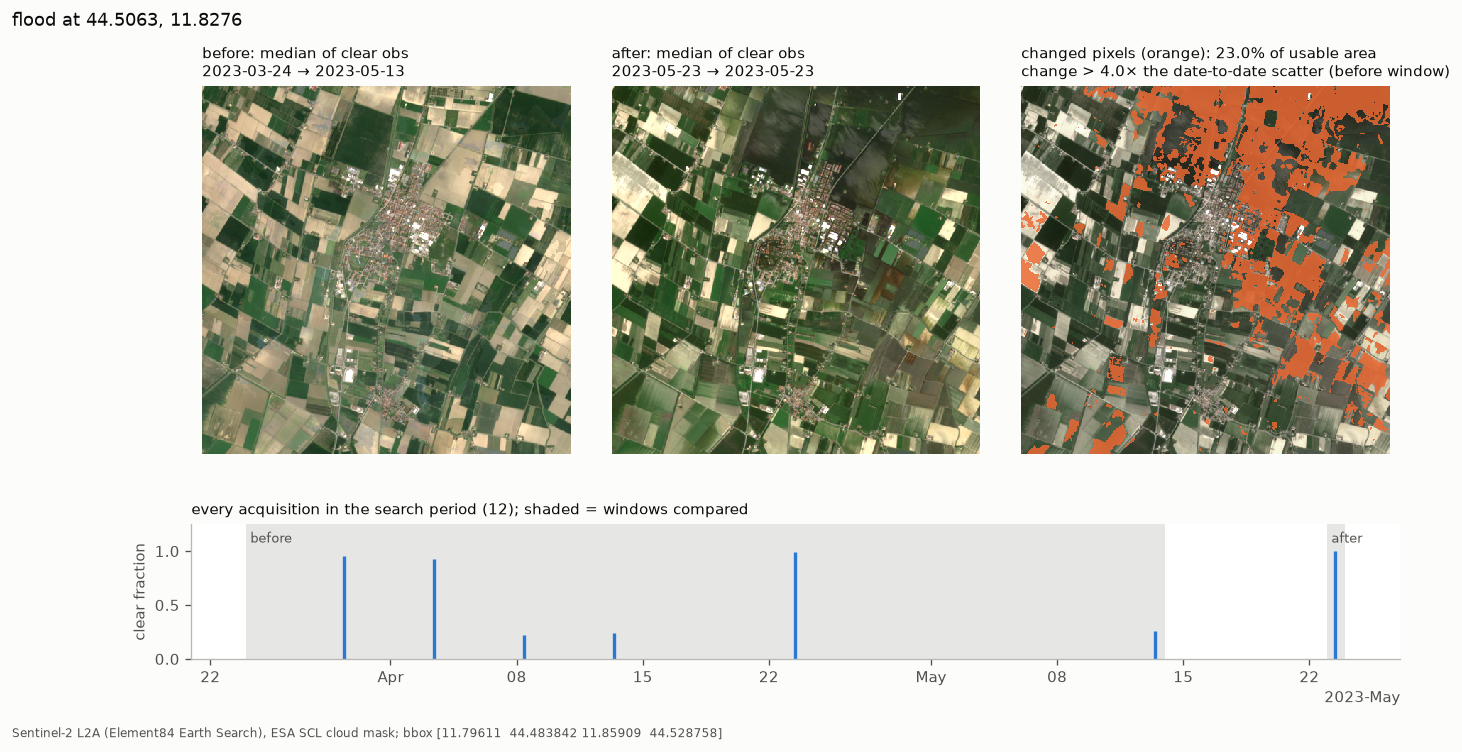
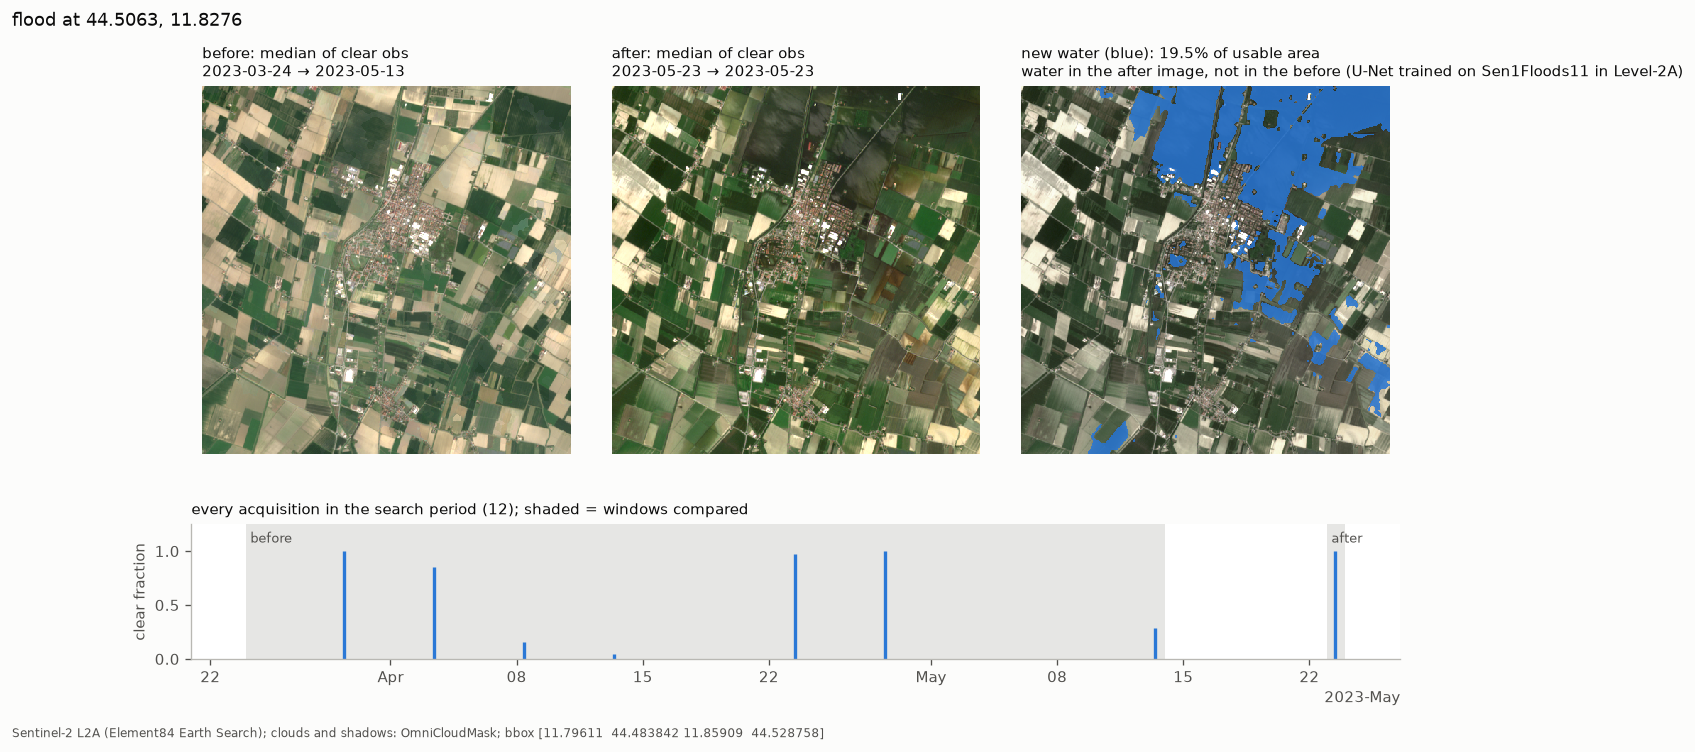
README first screen: live demo link and picture, three results with intervals, the method in one paragraph, overlap (IoU) defined; detailed table moved down with its terms explained and the construction score put in context. Evidence figure now shows what the answer used (new water from the water ne

diff --git a/core/evidence.py b/core/evidence.py
@@ -45,9 +45,21 @@ def render_evidence(
     after: tuple[date, date],
     out_path: str | Path,
     title: str = "",
+    water: str = "ndwi",
+    change: str = "rule",
+    cloud: str = "scl",
 ) -> Path:
     """Write the evidence PNG and return its path. `result` comes from
-    core.models.baseline.detect_change_timeseries."""
+    core.models.baseline.detect_change_timeseries; `water`, `change` and `cloud` name the detectors that
+    made it, so that the third panel and the footnote show what the answer was actually based on: new water
+    for a flood question (a trained water detector), otherwise the changed pixels of the change detector."""
+    import re
+
+    from core.models.change import NAMES as CHANGE_NAMES
+    from core.models.water import NAMES as WATER_NAMES
+
+    def plain(name: str) -> str:        # visitors see the method, not our milestone labels
+        return re.sub(r"\s*\((milestones?|B\d)[^)]*\)", "", name)
     out_path = Path(out_path)
     out_path.parent.mkdir(parents=True, exist_ok=True)
     plt.rcParams.update({"font.size": 9, "axes.edgecolor": MUTED, "axes.labelcolor": INK_2,
@@ -70,11 +82,20 @@ def render_evidence(
             ax.axis("off")
         ax = fig.add_subplot(gs[0, 2])
         ax.imshow(ra * 0.55 + 0.45 * ra.mean(-1, keepdims=True), interpolation="nearest")
-        ov = np.zeros(changed.shape + (4,))
-        ov[changed] = (0.92, 0.41, 0.20, 0.85)
+        if water != "ndwi":                     # a flood question: the answer is the new water
+            mask, colour = result["_new_water"], (0.16, 0.47, 0.84, 0.85)
+            frac = result["water_fraction_after"] - result["water_fraction_before"]
+            ttl = (f"new water (blue): {frac:.1%} of usable area\n"
+                   f"water in the after image, not in the before ({plain(WATER_NAMES.get(water.split('-without-')[0], water))})")
+        else:
+            mask, colour = changed, (0.92, 0.41, 0.20, 0.85)
+            how = (f"change > {result['z_threshold']}× the date-to-date scatter (before window)" if change == "rule"
+                   else plain(CHANGE_NAMES.get(change.split("-without-")[0], change)))
+            ttl = f"changed pixels (orange): {result['changed_fraction']:.1%} of usable area\n{how}"
+        ov = np.zeros(mask.shape + (4,))
+        ov[mask] = colour
         ax.imshow(ov, interpolation="nearest")
-        ax.set_title(f"changed pixels (orange): {result['changed_fraction']:.1%} of usable area\n"
-                     f"change > {result['z_threshold']}× the date-to-date scatter (before window)", loc="left", fontsize=9)
+        ax.set_title(ttl, loc="left", fontsize=9)
         ax.axis("off")
     else:
         ax = fig.add_subplot(gs[0, :])
@@ -97,7 +118,9 @@ def render_evidence(
                  f"shaded = windows compared", loc="left", fontsize=9)
 
     fig.suptitle(title, x=0.01, ha="left", fontsize=11)
-    fig.text(0.01, 0.005, f"Sentinel-2 L2A (Element84 Earth Search), ESA SCL cloud mask; bbox {ds.attrs.get('bbox')}",
+    clouds = {"scl": "ESA scene classification", "ocm": "OmniCloudMask"}.get(cloud, cloud)
+    fig.text(0.01, 0.005, f"Sentinel-2 L2A (Element84 Earth Search); clouds and shadows: {clouds}; "
+             f"bbox {ds.attrs.get('bbox')}",
              fontsize=7, color=INK_2)
     fig.savefig(out_path, dpi=120, bbox_inches="tight", facecolor=SURFACE)
     plt.close(fig)

diff --git a/core/measure.py b/core/measure.py
@@ -82,6 +82,7 @@ FIRE_PERIODS = {"normal": ((-60, -3), (7, 60)), "wide": ((-120, -3), (7, 90))}  
 NEAREST_N, NEAREST_MIN_CLEAR = 8, 0.10
 
 Kind = Literal["flood", "construction", "vegetation_loss"]
+KIND_WORDS = {"flood": "flood", "construction": "new construction", "vegetation_loss": "burnt or cleared vegetation"}
 
 
 def event_periods(d: date, wider: bool = False) -> tuple[tuple[date, date], tuple[date, date]]:
@@ -253,7 +254,7 @@ def _fire_measure(x: MeasureInput, out: dict, steps: list[str], area: dict, band
                                   f"mask could hide a change or fake one")
                 steps.append("caution: " + out["caution"])
             out["sensor"] = "optical"
-            out["figure"] = tools.render_evidence(c.result_id, f"{x.kind} at {x.lat:.4f}, {x.lon:.4f}").path
+            out["figure"] = tools.render_evidence(c.result_id, f"{KIND_WORDS[x.kind]} at {x.lat:.4f}, {x.lon:.4f}", cloud=cloud).path
             return MeasureResult(**out)
     return MeasureResult(**out)
 
@@ -342,7 +343,7 @@ def measure_change(water: str | None = None, radar: str | None = "ALL", cloud: s
         out.update(answer=ans, rule=rule, reason=None if c.status == "ok" else rule)
         if c.status == "ok":
             out["sensor"] = "optical"
-            out["figure"] = tools.render_evidence(c.result_id, f"{x.kind} at {x.lat:.4f}, {x.lon:.4f}").path
+            out["figure"] = tools.render_evidence(c.result_id, f"{KIND_WORDS[x.kind]} at {x.lat:.4f}, {x.lon:.4f}", cloud=cloud).path
             return MeasureResult(**out)
         if may_widen and not wider:
             steps.append("too few clear images -> one retry with wider periods")

diff --git a/core/models/baseline.py b/core/models/baseline.py
@@ -227,8 +227,9 @@ def detect_change_timeseries(
         deltas[f"delta_{k}_changed_median"] = float(np.nanmedian(d[changed])) if changed.any() else 0.0
         deltas[f"delta_{k}_all_median"] = float(np.nanmedian(d[usable]))
     if water == "ndwi":
-        water_before = float(np.nanmean(ib["ndwi"][usable] > 0))
-        water_after = float(np.nanmean(ia["ndwi"][usable] > 0))
+        wmb, wma = ib["ndwi"] > 0, ia["ndwi"] > 0
+        water_before = float(np.nanmean(wmb[usable]))
+        water_after = float(np.nanmean(wma[usable]))
     else:  # a trained water detector (milestone B1) on 7-band median composites
         from core.models.water import BANDS7, water_mask
         missing = [k for k in BANDS7 if k not in ds]
@@ -238,8 +239,9 @@ def detect_change_timeseries(
             warnings.simplefilter("ignore")  # all-NaN pixels give NaN medians; they are outside `usable`
             cb = np.stack([np.nanmedian(wb[k].values, axis=0) for k in BANDS7])
             ca = np.stack([np.nanmedian(wa[k].values, axis=0) for k in BANDS7])
-        water_before = float(water_mask(cb, water)[usable].mean())
-        water_after = float(water_mask(ca, water)[usable].mean())
+        wmb, wma = water_mask(cb, water), water_mask(ca, water)
+        water_before = float(wmb[usable].mean())
+        water_after = float(wma[usable].mean())
 
     return {
         "status": "ok",
@@ -253,5 +255,6 @@ def detect_change_timeseries(
         **deltas,
         "_score": score,  # maps: leading underscore = not for the LLM / JSON
         "_changed": changed,
+        "_new_water": np.asarray(wma & ~wmb & usable),
         "_composites": comp,
     }

diff --git a/core/tools.py b/core/tools.py
@@ -300,7 +300,7 @@ class EvidenceOutput(BaseModel):
     description: str
 
 
-def render_evidence(result_id: str, title: str = "") -> EvidenceOutput:
+def render_evidence(result_id: str, title: str = "", cloud: str | None = None) -> EvidenceOutput:
     """Write the evidence figure (before / after / change map / timeline) for a detect_change result."""
     from core.evidence import render_evidence as _render
 
@@ -311,7 +311,8 @@ def render_evidence(result_id: str, title: str = "") -> EvidenceOutput:
     ds, wb, wa = _combined(*saved["_cubes"])
     r = detect_change_timeseries(ds, wb, wa, water=saved.get("_water", "ndwi"), change=saved.get("_change", "rule"))
     path = _root() / "evidence" / f"{result_id}.png"
-    _render(ds, r, wb, wa, path, title or f"result {result_id}")
+    _render(ds, r, wb, wa, path, title or f"result {result_id}", water=saved.get("_water", "ndwi"),
+            change=saved.get("_change", "rule"), cloud=cloud or "scl")
     return EvidenceOutput(path=str(path), description=(
         "before and after true-colour composites, changed pixels in orange, and the "
         "cloud-free fraction of every acquisition with both windows shaded"))

diff --git a/scripts/make_figures.py b/scripts/make_figures.py
@@ -1,7 +1,7 @@
 """Draw docs/figures/results.png: every learned model against the rule it had to beat.
 
 The numbers are the measured results (runs/b1/report.json, runs/b2/report_A.json, runs/b2/report_C.json,
-runs/b3/report_A.json, runs/b4/report_A.json, runs/b5/report_A.json);
+runs/b3/report_A.json, runs/b4/report_A.json, runs/b5/report_A.json, runs/b7/report_A.json, runs/b8/report.json);
 they are written here so that the figure can be redrawn without the 10 GB of intermediate files.
 
     python scripts/make_figures.py
@@ -59,8 +59,9 @@ PANELS = [
         ("dNBR > t, t fitted", 0.560, "rule"),
         ("Prithvi-EO-2.0 BurnScars, as published", 0.483, "model"),
         ("TerraMind-1.0-base, Siamese (7x larger)", 0.793, "model"),
-        ("U-Net, trained from scratch", 0.772, "adopted"),
-    ], "+0.722 [+0.671, +0.773]\nover the rule"),
+        ("U-Net, trained from scratch", 0.772, "model"),
+        ("U-TAE, every clear date", 0.815, "adopted"),
+    ], "U-TAE, after a second test on\n44 newer fires: +0.021 [+0.012, +0.035] over the U-Net"),
 ]
 
 

diff --git a/README.md b/README.md
@@ -1,37 +1,39 @@
 # satellite-change-agent
 
 **Ask a question about any place on Earth in plain language: "Was this town flooded after the storm?",
-"Was there new construction here since 2022?" The system finds free satellite images, measures the
-change, and answers yes / no / cannot tell, with the numbers and an evidence figure.**
+"Did a wildfire burn here in January?", "Was there new construction here since 2022?" The system finds free
+satellite images, measures the change, and answers yes / no / cannot tell, with the numbers and an
+evidence figure.**
 
-Every learned model in the answer path had to **beat the rule it replaces**, under a protocol fixed
-**before any score was computed**, on **flood events or places it had never seen**, with intervals
-from a cluster bootstrap over events or places.
+**[Try it live](https://deltasata.github.io/eo/)**: type a question or pick a point on a map. When the
+server is off, recorded runs play instead.
 
-![results](docs/figures/results.png)
+[![A burn scar mapped by the trained network and checked against the official map](https://deltasata.github.io/eo/media/compare_burn_poster.jpg)](https://deltasata.github.io/eo/)
 
-| step | rule (or model) it replaced | learned model adopted | gain [95 % interval] |
-|---|---|---|---|
-| which pixels are water, optical (Sentinel-2) | NDWI > 0: 0.690 IoU | **U-Net: 0.833** | +0.143 [+0.083, +0.219] |
-| which pixels are water, radar (Sentinel-1, sees through cloud) | VH < t: 0.477 IoU | **TerraMind-1.0, fine-tuned: 0.611** | +0.134 [+0.090, +0.192] |
-| flood questions answered correctly (72), end to end | optical images only: 0.722 | **optical U-Net + radar TerraMind when cloudy: 0.889** | +0.167 [+0.031, +0.346] |
-| which pixels are cloud or cloud shadow (953 expert-labelled images) | ESA scene classification: 0.644 IoU | **OmniCloudMask, used as published: 0.885** | +0.241 [+0.221, +0.261] |
-| which pixels changed through construction (OSCD, 24 cities) | change / noise > 4: 0.188 IoU | **TerraMind-1.0, Siamese, fine-tuned: 0.301** | +0.114 [+0.052, +0.180] |
-| which pixels burnt (ImpactMesh-Fire, 42 fires) | change / noise > 4: 0.050 IoU | **U-Net: 0.772** (dNBR fitted: 0.560) | +0.722 [+0.671, +0.773] |
-| which pixels burnt, 44 new fires of 2026 (later than all training) | the U-Net above: 0.838 IoU | **U-TAE on every clear date: 0.859** | +0.021 [+0.012, +0.035] |
-| flooded places wrongly called construction (78 benchmark floods) | the construction network above: 21 | **minus the water network's water: 6** | −0.192 [−0.333, −0.072] |
-| wildfire questions answered correctly (228, 55 fires): which images | flood periods: 0.855 | **8 nearest images each side, within the training limits: 0.996** | +0.140 [+0.076, +0.221] |
+*A wildfire in the Landes forest, south-west France (August 2026), mapped from Sentinel-2 images by the trained network and
+checked against the official Copernicus emergency map: yellow = burnt and found, pink = false alarm,
+blue = missed. Click for the live page and the moving comparison with the standard burn index.*
 
-With the new cloud mask, the whole benchmark (150 questions) went from 0.853 to 0.860 (+0.007
-[−0.015, +0.029]); with the new change detector it stayed at 0.860; with the new burn detector it rose to
-0.887 (+0.027 [+0.006, +0.059]; all 13 wildfire questions right, against 9), and stayed there when U-TAE
-replaced the U-Net. Removing the water from the construction map cost one answer, a filling reservoir asked
-as "any change" (0.880). The choice of fire images left it unchanged, because the benchmark's questions
-carry their own periods. Not worse was the condition
-for adopting each. The last step, from a map to yes or no, kept its hand-set thresholds: thresholds fitted
-on the benchmark (leaving one of its 83 groups out) and a logistic regression did not beat them. Asked "was there new construction?" about 78 flooded areas, the change detector answers
-a false "yes" 21 times, against 25 for the rule it replaced; on 570 unburnt patches next to fires, the burn
-detector says "yes" 3.9 % of the time, against 5.1 %.
+## Three results
+
+1. **Floods under cloud are answered with radar, which sees through cloud.** A trained water network on
+   the optical images plus a fine-tuned TerraMind network on Sentinel-1 radar raised the share of flood
+   questions answered correctly from 0.722 (optical images only) to 0.889. The 95 % interval of the gain
+   is +0.031 to +0.346, from resampling whole flood events.
+2. **A 1.1-million-parameter network beat the published 168-million-parameter TerraMind-base-Fire** on 44
+   wildfires that happened after all of its training data: overlap of the burnt area 0.859 against 0.835
+   (difference −0.024 [−0.037, −0.010] for the larger model). *Overlap* (IoU, intersection over union) is
+   the area that the predicted and the true maps share, divided by the area that either covers: 1 is
+   perfect, 0 is no overlap.
+3. **The language model never measures.** It only reads the question and writes the reply. All
+   measurement is one fixed function, and code checks that every number in a reply comes from that
+   function's output.
+
+**How the models were chosen.** Every learned model had to beat the simple rule it replaces (a
+threshold on a band ratio, for example) on flood events or places it had never seen. The test and its
+pass mark were written down **before any score was computed**, and the 95 % intervals come from
+resampling whole events. Several promising ideas failed this test and were not used. Details:
+**[docs/METHODS.md](docs/METHODS.md)**.
 
 ## What it does
 
@@ -54,6 +56,41 @@ Agent   No: 1.0 % of the area changed (threshold 3 %).
 *The conversation is shortened; every number in it is what `measure_change` returns for these inputs.*
 
 ![evidence](docs/figures/conselice_flood.png)
+
+## Results in detail
+
+![results](docs/figures/results.png)
+
+| step | rule (or model) it replaced | learned model adopted | gain [95 % interval] |
+|---|---|---|---|
+| which pixels are water, optical (Sentinel-2) | NDWI > 0: 0.690 IoU | **U-Net: 0.833** | +0.143 [+0.083, +0.219] |
+| which pixels are water, radar (Sentinel-1, sees through cloud) | VH < t: 0.477 IoU | **TerraMind-1.0, fine-tuned: 0.611** | +0.134 [+0.090, +0.192] |
+| flood questions answered correctly (72), end to end | optical images only: 0.722 | **optical U-Net + radar TerraMind when cloudy: 0.889** | +0.167 [+0.031, +0.346] |
+| which pixels are cloud or cloud shadow (953 expert-labelled images) | ESA scene classification: 0.644 IoU | **OmniCloudMask, used as published: 0.885** | +0.241 [+0.221, +0.261] |
+| which pixels changed through construction (OSCD, 24 cities) | change / noise > 4: 0.188 IoU | **TerraMind-1.0, Siamese, fine-tuned: 0.301** | +0.114 [+0.052, +0.180] |
+| which pixels burnt (ImpactMesh-Fire, 42 fires) | change / noise > 4: 0.050 IoU | **U-Net: 0.772** (dNBR fitted: 0.560) | +0.722 [+0.671, +0.773] |
+| which pixels burnt, 44 new fires of 2026 (later than all training) | the U-Net above: 0.838 IoU | **U-TAE on every clear date: 0.859** | +0.021 [+0.012, +0.035] |
+| flooded places wrongly called construction (78 benchmark floods) | the construction network above: 21 of 78 | **minus the water network's water: 6 of 78** | 15 fewer (share −0.192 [−0.333, −0.072]) |
+
+With the new cloud mask, the whole benchmark (150 questions) went from 0.853 to 0.860 (+0.007
+[−0.015, +0.029]); with the new change detector it stayed at 0.860; with the new burn detector it rose to
+0.887 (+0.027 [+0.006, +0.059]; all 13 wildfire questions right, against 9), and stayed there when U-TAE
+replaced the U-Net. Removing the water from the construction map cost one answer (0.880): a dam's
+reservoir that filled, asked as "did anything change?", now counts as no change, because new water is no
+longer counted as construction. The choice of fire images left the benchmark unchanged, because its
+questions carry their own periods. For each adoption the condition was that the benchmark did not get
+worse. The last step, from a map to yes or no, kept its hand-set thresholds: thresholds fitted
+on the benchmark (leaving one of its 83 groups out) and a logistic regression did not beat them. Asked "was there new construction?" about 78 flooded areas, the change detector answers
+a false "yes" 21 times, against 25 for the rule it replaced; on 570 unburnt patches next to fires, the burn
+detector says "yes" 3.9 % of the time, against 5.1 %.
+
+*Terms in the table:* VV and VH are the two polarisations of the Sentinel-1 radar (VH < t: water where the
+VH echo is below a threshold t). NDWI and MNDWI are water indices from two Sentinel-2 bands; dNBR is the
+standard burn index. U-TAE is a network that reads every clear image in a period, not two average images.
+OSCD is the public data set of urban change in 24 cities. For construction, an overlap of 0.301 sounds
+low, but change maps are hard: the same network scores F1 0.46 (F1 is another overlap measure, always
+higher than IoU for the same map), and the published results on OSCD's own test cities are F1 0.4-0.6,
+in a setup that differs from ours.
 
 ## How it works
 
@@ -163,7 +200,8 @@ flowchart LR
     on images from a week to three months after a fire. Taking, on each side, the 8 images nearest the
     fire that are at least 10 % cloud-free, within the training limits, raised the right answers on 228
     fire questions from 0.855 to 0.996 (+0.140 [+0.076, +0.221]), with no "cannot tell" left. The month
-    questions went from 8 of 13 to 13 of 13.
+    questions went from 8 of 13 to 13 of 13. (The 2026 fires had already served one earlier test, of
+    the burn network; see the Limits in METHODS.)
 
 Full protocols, per-event tables and limits: **[docs/METHODS.md](docs/METHODS.md)**.
 

diff --git a/docs/METHODS.md b/docs/METHODS.md
@@ -15,13 +15,14 @@ Every learned component in this system had to beat the rule it replaces, under a
 - [10. Every clear date instead of two medians](#10-every-clear-date-instead-of-two-medians)
 - [11. A second test: fires of 2026, and radar](#11-a-second-test-fires-of-2026-and-radar)
 - [12. An independent review, and three ideas tested](#12-an-independent-review-and-three-ideas-tested)
-- [13. Comparison with published Sen1Floods11 results](#13-comparison-with-published-sen1floods11-results)
-- [14. The agent benchmark](#14-the-agent-benchmark)
-- [15. Limits](#15-limits)
+- [13. Which images a fire question uses](#13-which-images-a-fire-question-uses)
+- [14. Comparison with published Sen1Floods11 results](#14-comparison-with-published-sen1floods11-results)
+- [15. The agent benchmark](#15-the-agent-benchmark)
+- [16. Limits](#16-limits)
 
 ## 1. Principle: a model replaces a rule only if it wins
 
-1. **Test data fixed in advance, used once.** No training, setting or threshold is chosen on them.
+1. **Test data fixed in advance.** No training, setting or threshold is chosen on them. Each test set decides one question; the one set used for a second question (the 2026 fires, sections 11 and 13) is named in the Limits (section 16).
 2. **One main number per step, chosen in advance.** For pixel maps: the IoU (intersection over union)
    of the class that matters, pooled over all test pixels: IoU = ΣTP / (ΣTP + ΣFP + ΣFN). For the answer
    path: accuracy of the final yes / no / cannot-tell answer.
